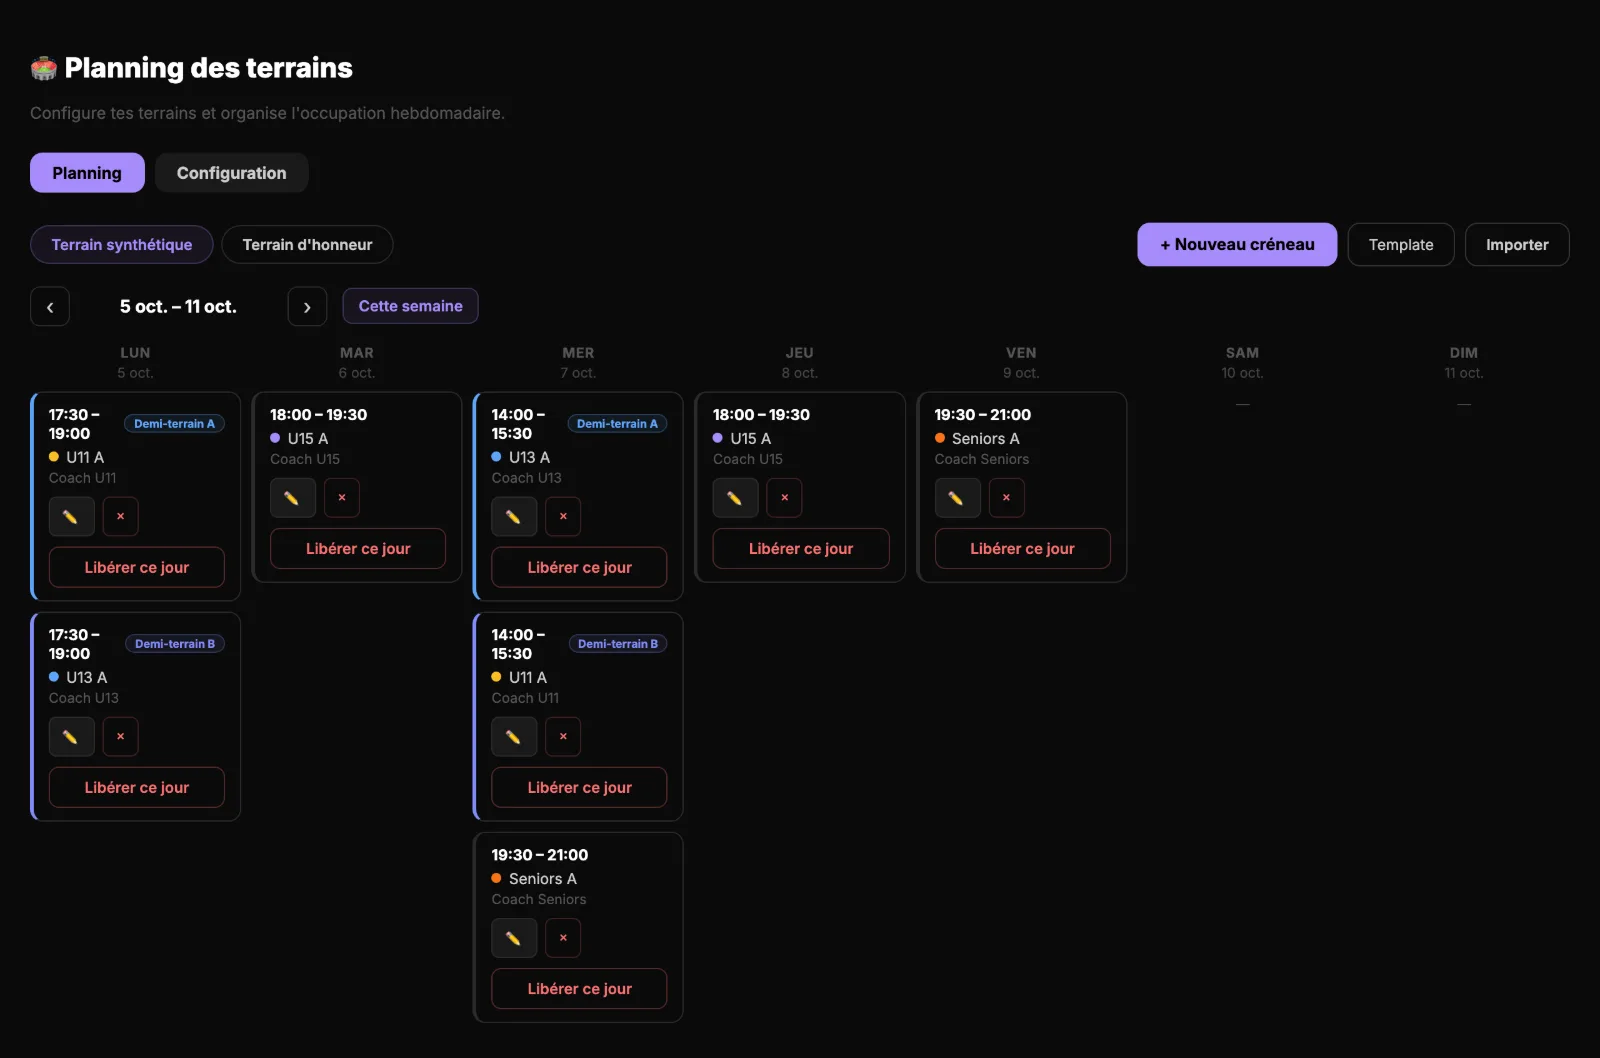
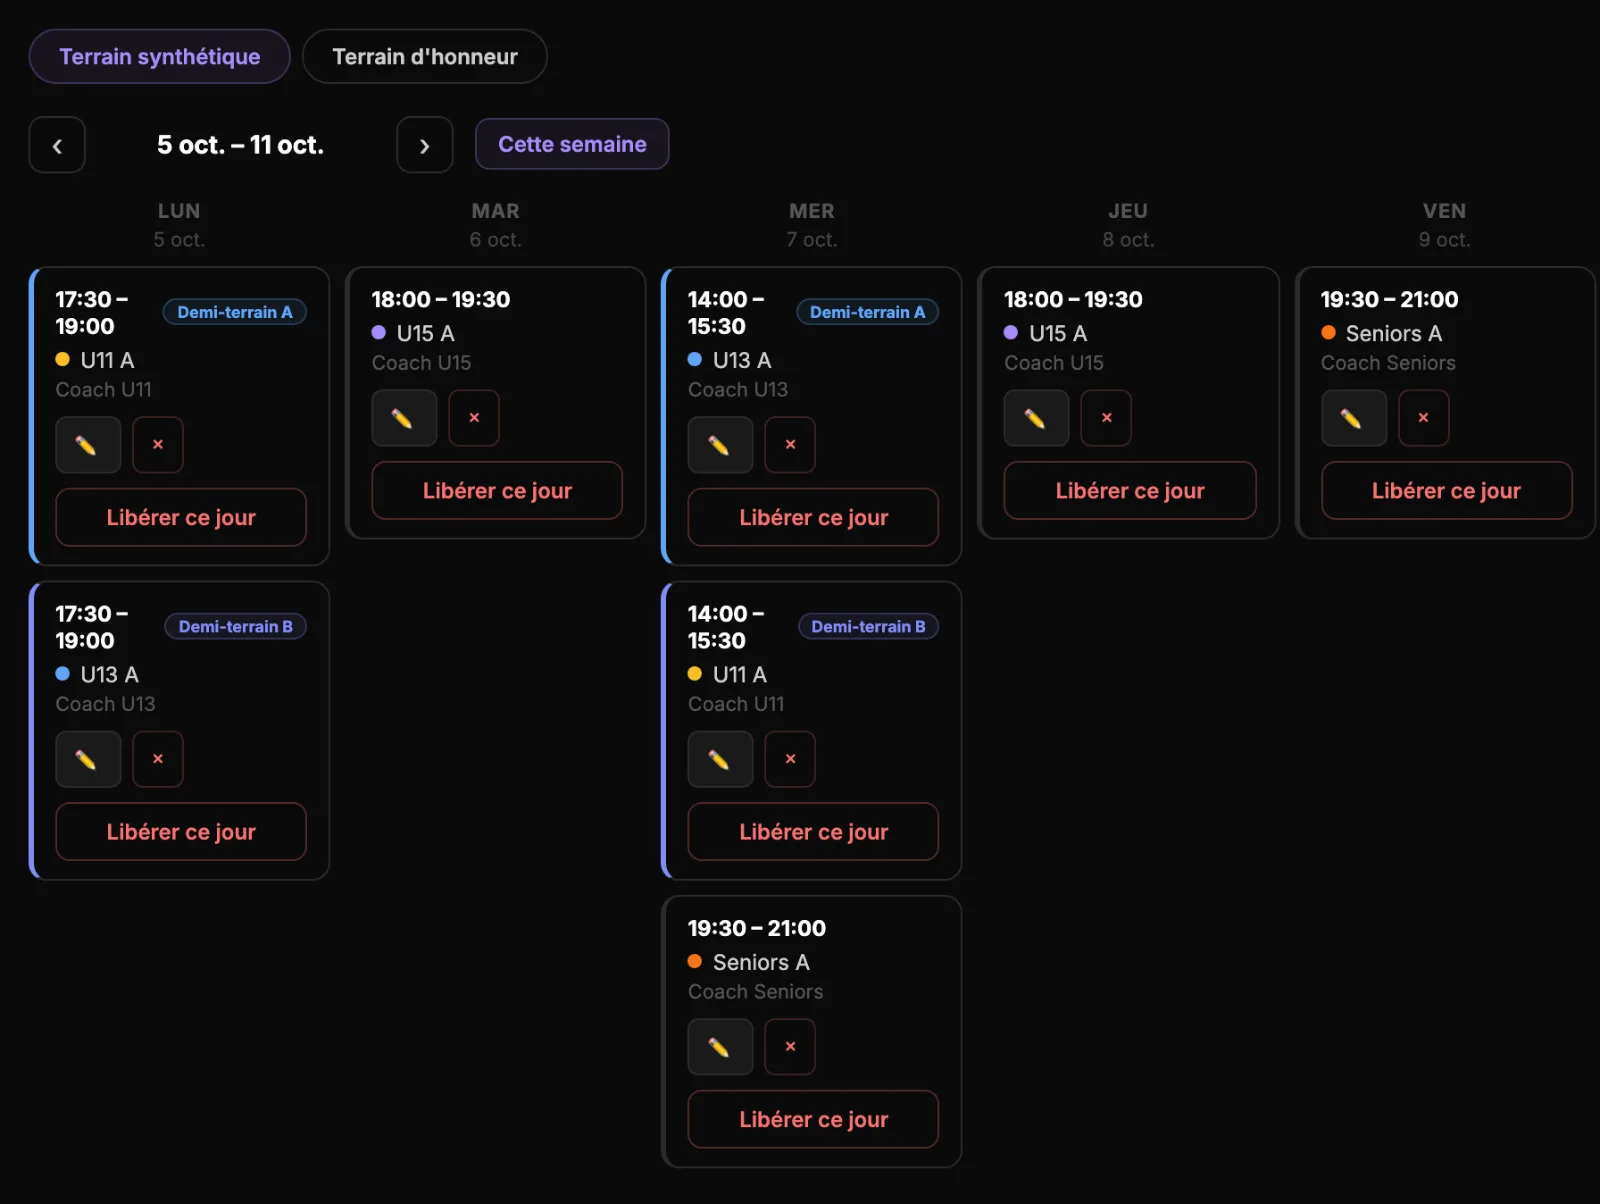
style(home): finitions de la section « Une semaine de match »
- Scène 1 : recadrage serré du planning des terrains (lundi→vendredi,
  terrains, semaine, demi-terrains) — contenu ~25 % plus grand.
- Scène 5 : fiche d'évaluation agrandie (93 % de haut), carte joueur
  réduite (58 %), centrées, sans chevauchement.
- Nouveau sous-titre, traduit dans les 6 langues.
- Tablette : césure automatique des titres d'onglets (lang sur la
  section), utile en allemand à 680px.

diff --git a/src/components/DemoSemaineMatch.jsx b/src/components/DemoSemaineMatch.jsx
@@ -24,7 +24,7 @@ import carteJoueur from '../assets/demos/carte-joueur.webp'
 // promet qu'elle est accessible à tous les profils.
 const SCENES = [
   { profil: 'club', color: colors.accent.purpleLight,
-    desktop: { src: terrainsDesktop, w: 1600, h: 1058 }, mobile: { src: terrainsMobile, w: 720, h: 901 } },
+    desktop: { src: terrainsDesktop, w: 1600, h: 1204 }, mobile: { src: terrainsMobile, w: 720, h: 901 } },
   { profil: 'club', color: colors.accent.purpleLight,
     desktop: { src: deplacementsDesktop, w: 1600, h: 943 }, mobile: { src: deplacementsMobile, w: 720, h: 901 } },
   { profil: 'educateur', color: colors.accent.blue,
@@ -42,7 +42,8 @@ const num = i => String(i + 1).padStart(2, '0')
 // impossibles en style inline. Couleur de scène passée en --dsm (hex) et
 // --dsm-soft/--dsm-line (hex+alpha) — pas de color-mix(), absent de
 // Safari < 16.2. ≤1024px : onglets horizontaux au-dessus de l'aperçu ;
-// ≤640px : carrousel natif (scroll-snap), display:none sur l'autre bloc pour
+// césure automatique des titres d'onglets (lang sur la section — ex.
+// « Verfügbarkeiten » en allemand à 680px) ; ≤640px : carrousel natif (scroll-snap), display:none sur l'autre bloc pour
 // qu'il sorte de l'arbre d'accessibilité et que ses images lazy ne se
 // chargent pas.
 const DSM_STYLE = `
@@ -78,7 +79,7 @@ const DSM_STYLE = `
     .dsm-desktop { grid-template-columns: minmax(0, 1fr); gap: 1.25rem; }
     .dsm-tabs { display: grid; grid-template-columns: repeat(5, minmax(0, 1fr)); gap: 8px; }
     .dsm-tab { border-left-width: 1px; border-top: 3px solid transparent; padding: 10px 12px; }
-    .dsm-tab-titre { font-size: 13px !important; }
+    .dsm-tab-titre { font-size: 13px !important; -webkit-hyphens: auto; hyphens: auto; }
     .dsm-tab[aria-selected="true"] { border-top-color: var(--dsm); }
   }
   @media (max-width: 640px) {
@@ -166,7 +167,7 @@ export default function DemoSemaineMatch({ lang }) {
   })
 
   return (
-    <section aria-labelledby="dsm-titre" style={{ padding: '4rem 2rem', maxWidth: '1200px', margin: '0 auto' }} className="dsm-section">
+    <section aria-labelledby="dsm-titre" lang={lang} style={{ padding: '4rem 2rem', maxWidth: '1200px', margin: '0 auto' }} className="dsm-section">
       <style>{DSM_STYLE + '@media (max-width: 640px) { .dsm-section { padding-left: 1rem !important; padding-right: 1rem !important; } }'}</style>
       <div style={{ textAlign: 'center', marginBottom: '2.5rem' }}>
         <div style={{ display: 'inline-block', background: colors.background.surface, border: `1px solid ${colors.border.default}`, color: colors.text.secondary, fontSize: '11px', padding: '4px 14px', borderRadius: '20px', marginBottom: '1rem', letterSpacing: '1px', fontWeight: 600, textTransform: 'uppercase' }}>
@@ -195,14 +196,15 @@ export default function DemoSemaineMatch({ lang }) {
           <div className="dsm-stage">
             {SCENES.map((s, i) => (
               <div key={i} className={`dsm-layer${actif === i ? ' is-active' : ''}`} aria-hidden={actif !== i}>
-                {/* Fiche (88 % de haut ≈ 71 % de large) + carte (68 % ≈ 27 %) côte à
-                    côte sans chevauchement : la carte ne masque aucun contenu de la fiche. */}
+                {/* Fiche (93 % de haut ≈ 76 % de large) + carte (58 % ≈ 23 %) côte à
+                    côte, centrées verticalement, ~1 % d'écart : aucun chevauchement,
+                    la carte ne masque aucun contenu de la fiche. */}
                 {s.secondaire ? (
                   <>
                     <img src={s.desktop.src} alt={t(`action_alt_${i + 1}`, lang)} width={s.desktop.w} height={s.desktop.h} loading="lazy" decoding="async"
-                      style={{ position: 'absolute', left: 0, top: '6%', height: '88%', width: 'auto' }} />
+                      style={{ position: 'absolute', left: 0, top: '3.5%', height: '93%', width: 'auto' }} />
                     <img src={s.secondaire.src} alt={t('action_alt_carte', lang)} width={s.secondaire.w} height={s.secondaire.h} loading="lazy" decoding="async"
-                      style={{ position: 'absolute', right: 0, top: '16%', height: '68%', width: 'auto', filter: 'drop-shadow(0 18px 30px rgba(0,0,0,0.6))' }} />
+                      style={{ position: 'absolute', right: 0, top: '21%', height: '58%', width: 'auto', filter: 'drop-shadow(0 18px 30px rgba(0,0,0,0.6))' }} />
                   </>
                 ) : (
                   <img src={s.desktop.src} alt={t(`action_alt_${i + 1}`, lang)} width={s.desktop.w} height={s.desktop.h} loading="lazy" decoding="async"

diff --git a/src/lib/translationsHome.js b/src/lib/translationsHome.js
@@ -77,7 +77,7 @@ const T_HOME = {
   // toutes les langues (validé), seuls textes/alt/légendes sont traduits.
   action_badge: { fr: 'Digital Football en action', en: 'Digital Football in action', pt: 'Digital Football em ação', es: 'Digital Football en acción', it: 'Digital Football in azione', de: 'Digital Football in Aktion' },
   action_titre: { fr: 'Une semaine de match. Une seule plateforme.', en: 'One match week. One platform.', pt: 'Uma semana de jogo. Uma só plataforma.', es: 'Una semana de partido. Una sola plataforma.', it: 'Una settimana di partita. Un\'unica piattaforma.', de: 'Eine Spielwoche. Eine Plattform.' },
-  action_soustitre: { fr: 'Du terrain réservé au retour du coach, chacun voit ce qui le concerne.', en: 'From the booked pitch to the coach\'s feedback, everyone sees what matters to them.', pt: 'Do campo reservado ao feedback do treinador, cada um vê o que lhe diz respeito.', es: 'Del campo reservado al feedback del entrenador, cada uno ve lo que le concierne.', it: 'Dal campo prenotato al feedback dell\'allenatore, ognuno vede ciò che lo riguarda.', de: 'Vom gebuchten Platz bis zum Feedback des Trainers sieht jeder, was ihn betrifft.' },
+  action_soustitre: { fr: 'Du planning des terrains à la progression des joueurs, centralisez toute l\'organisation de votre club.', en: 'From pitch scheduling to player progress, centralize your club\'s entire organization.', pt: 'Do planeamento dos campos à evolução dos jogadores, centralize toda a organização do seu clube.', es: 'De la planificación de los campos al progreso de los jugadores, centralice toda la organización de su club.', it: 'Dalla pianificazione dei campi ai progressi dei giocatori, centralizzate tutta l\'organizzazione del vostro club.', de: 'Von der Platzbelegung bis zur Entwicklung der Spieler: Zentralisieren Sie die gesamte Organisation Ihres Vereins.' },
   action_cta: { fr: 'Voir les offres', en: 'See plans', pt: 'Ver os planos', es: 'Ver los planes', it: 'Vedi i piani', de: 'Angebote ansehen' },
   action_mention: { fr: 'Captures de l\'interface réelle, réalisées avec des données fictives.', en: 'Screenshots of the real interface, made with fictitious data.', pt: 'Capturas da interface real, feitas com dados fictícios.', es: 'Capturas de la interfaz real, realizadas con datos ficticios.', it: 'Screenshot dell\'interfaccia reale, realizzati con dati fittizi.', de: 'Screenshots der echten Oberfläche, erstellt mit fiktiven Daten.' },
   action_nav: { fr: 'Les étapes de la semaine', en: 'The steps of the week', pt: 'As etapas da semana', es: 'Las etapas de la semana', it: 'Le tappe della settimana', de: 'Die Etappen der Woche' },
